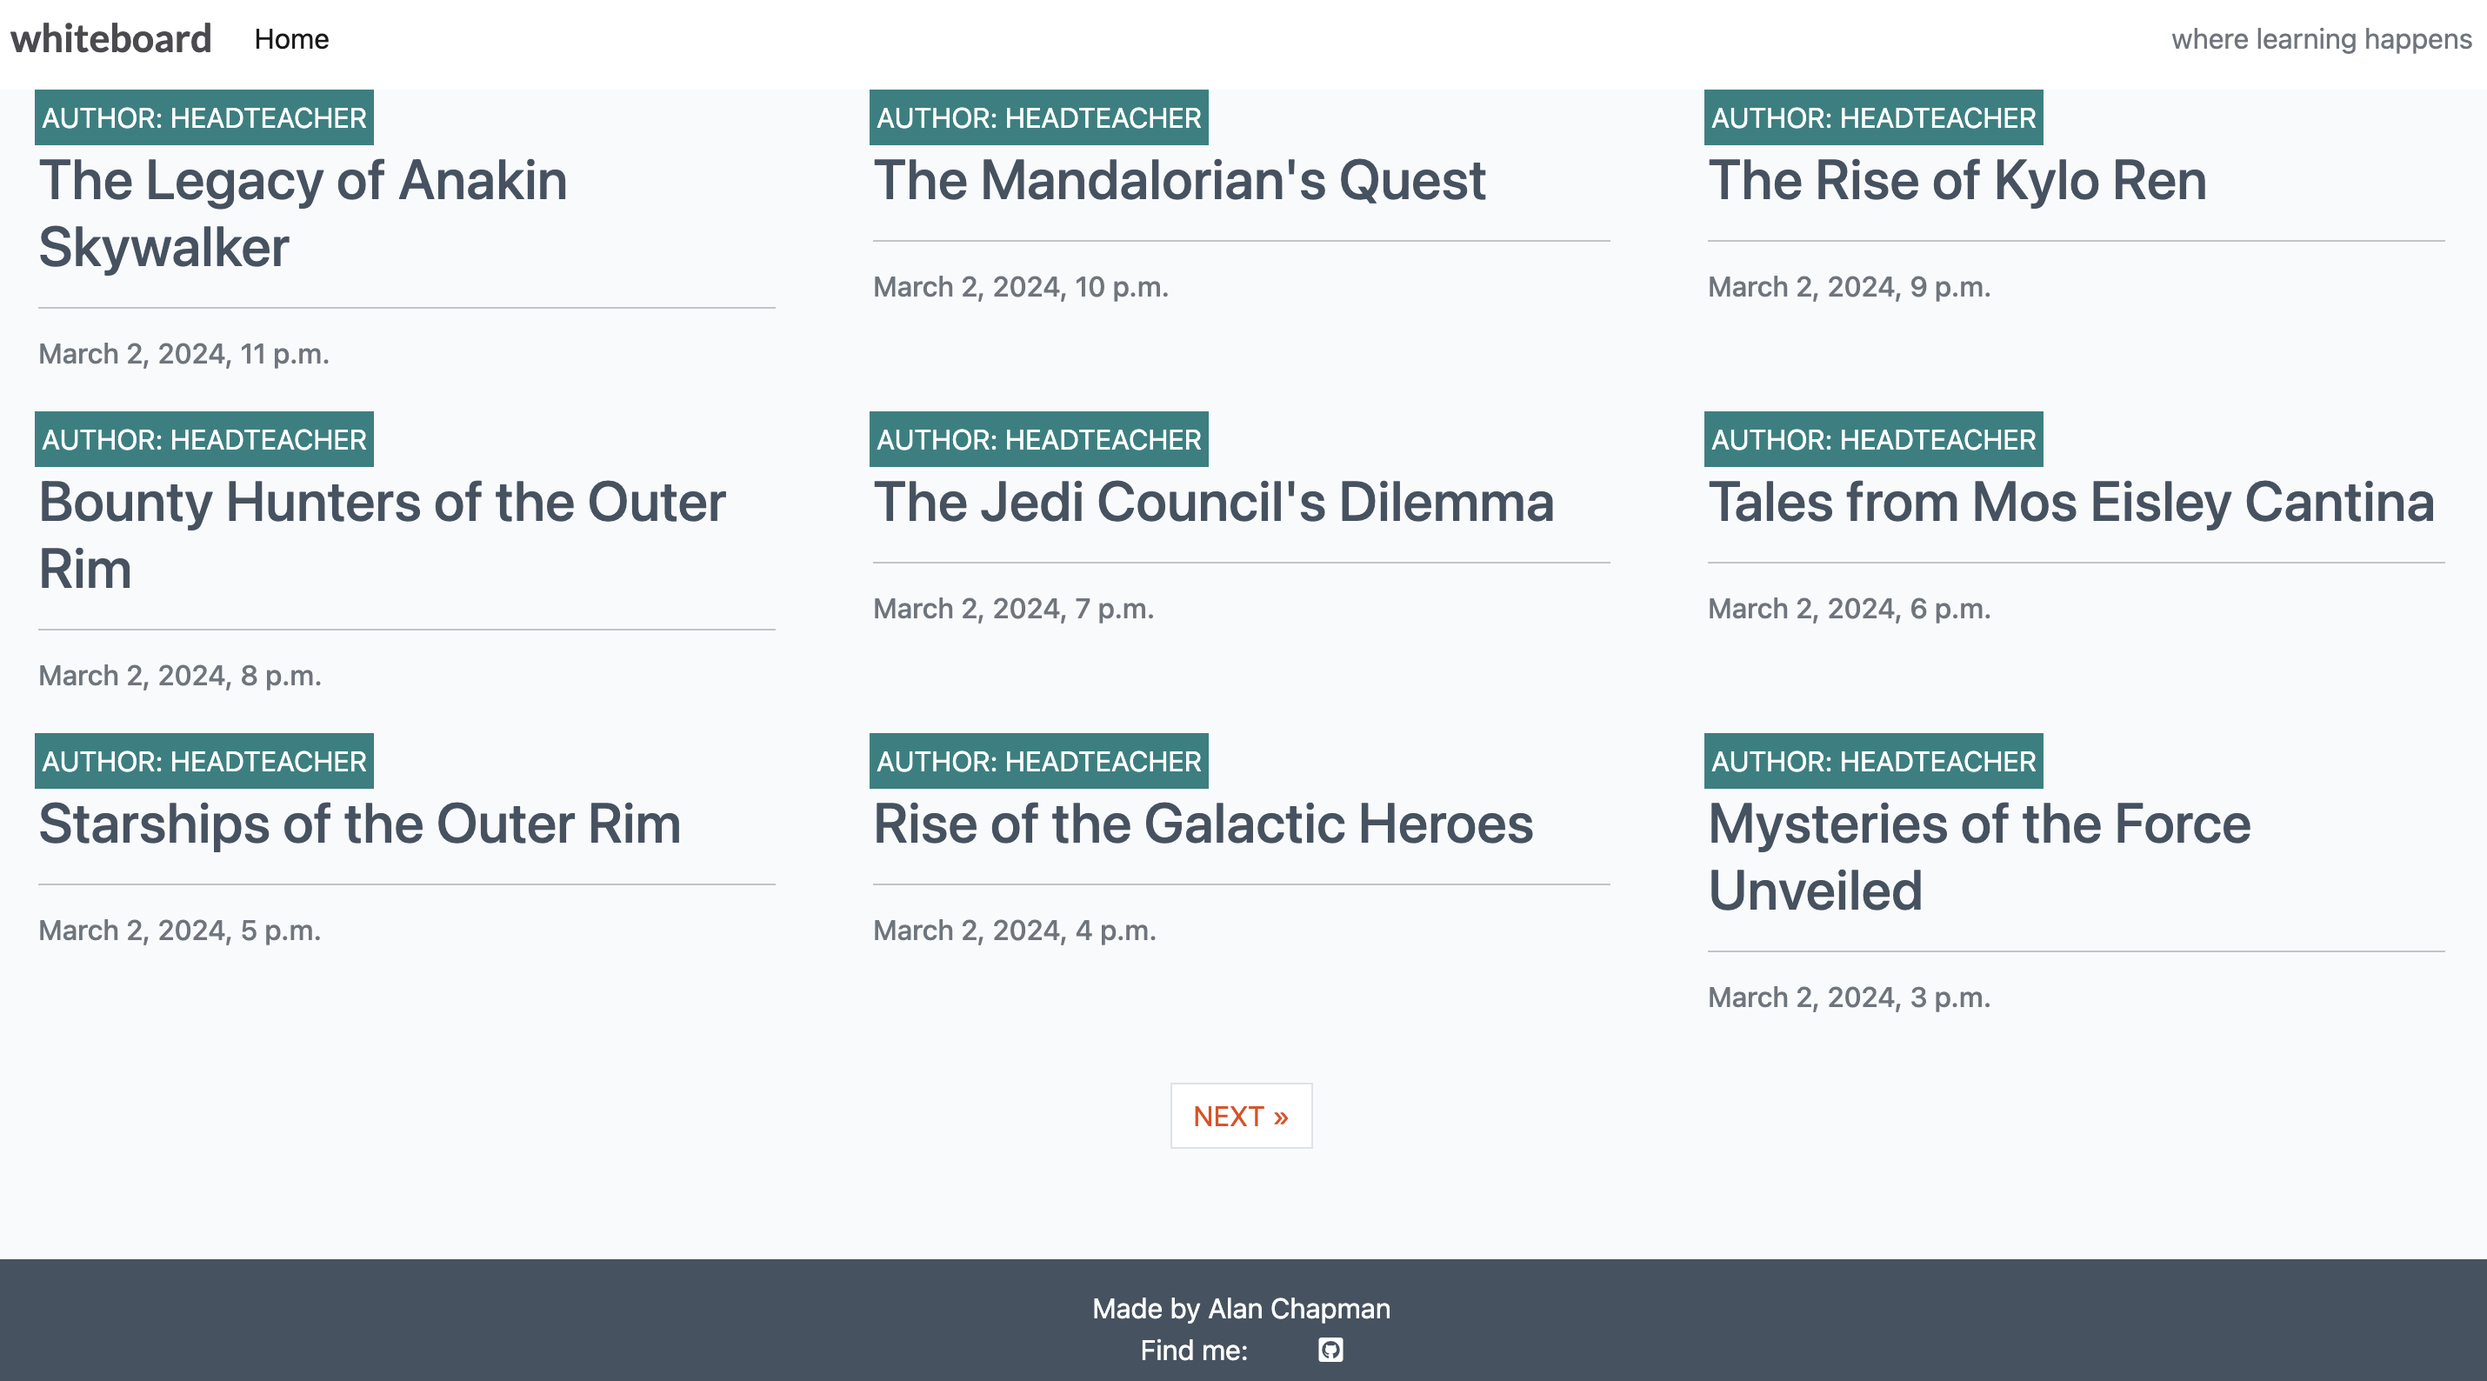
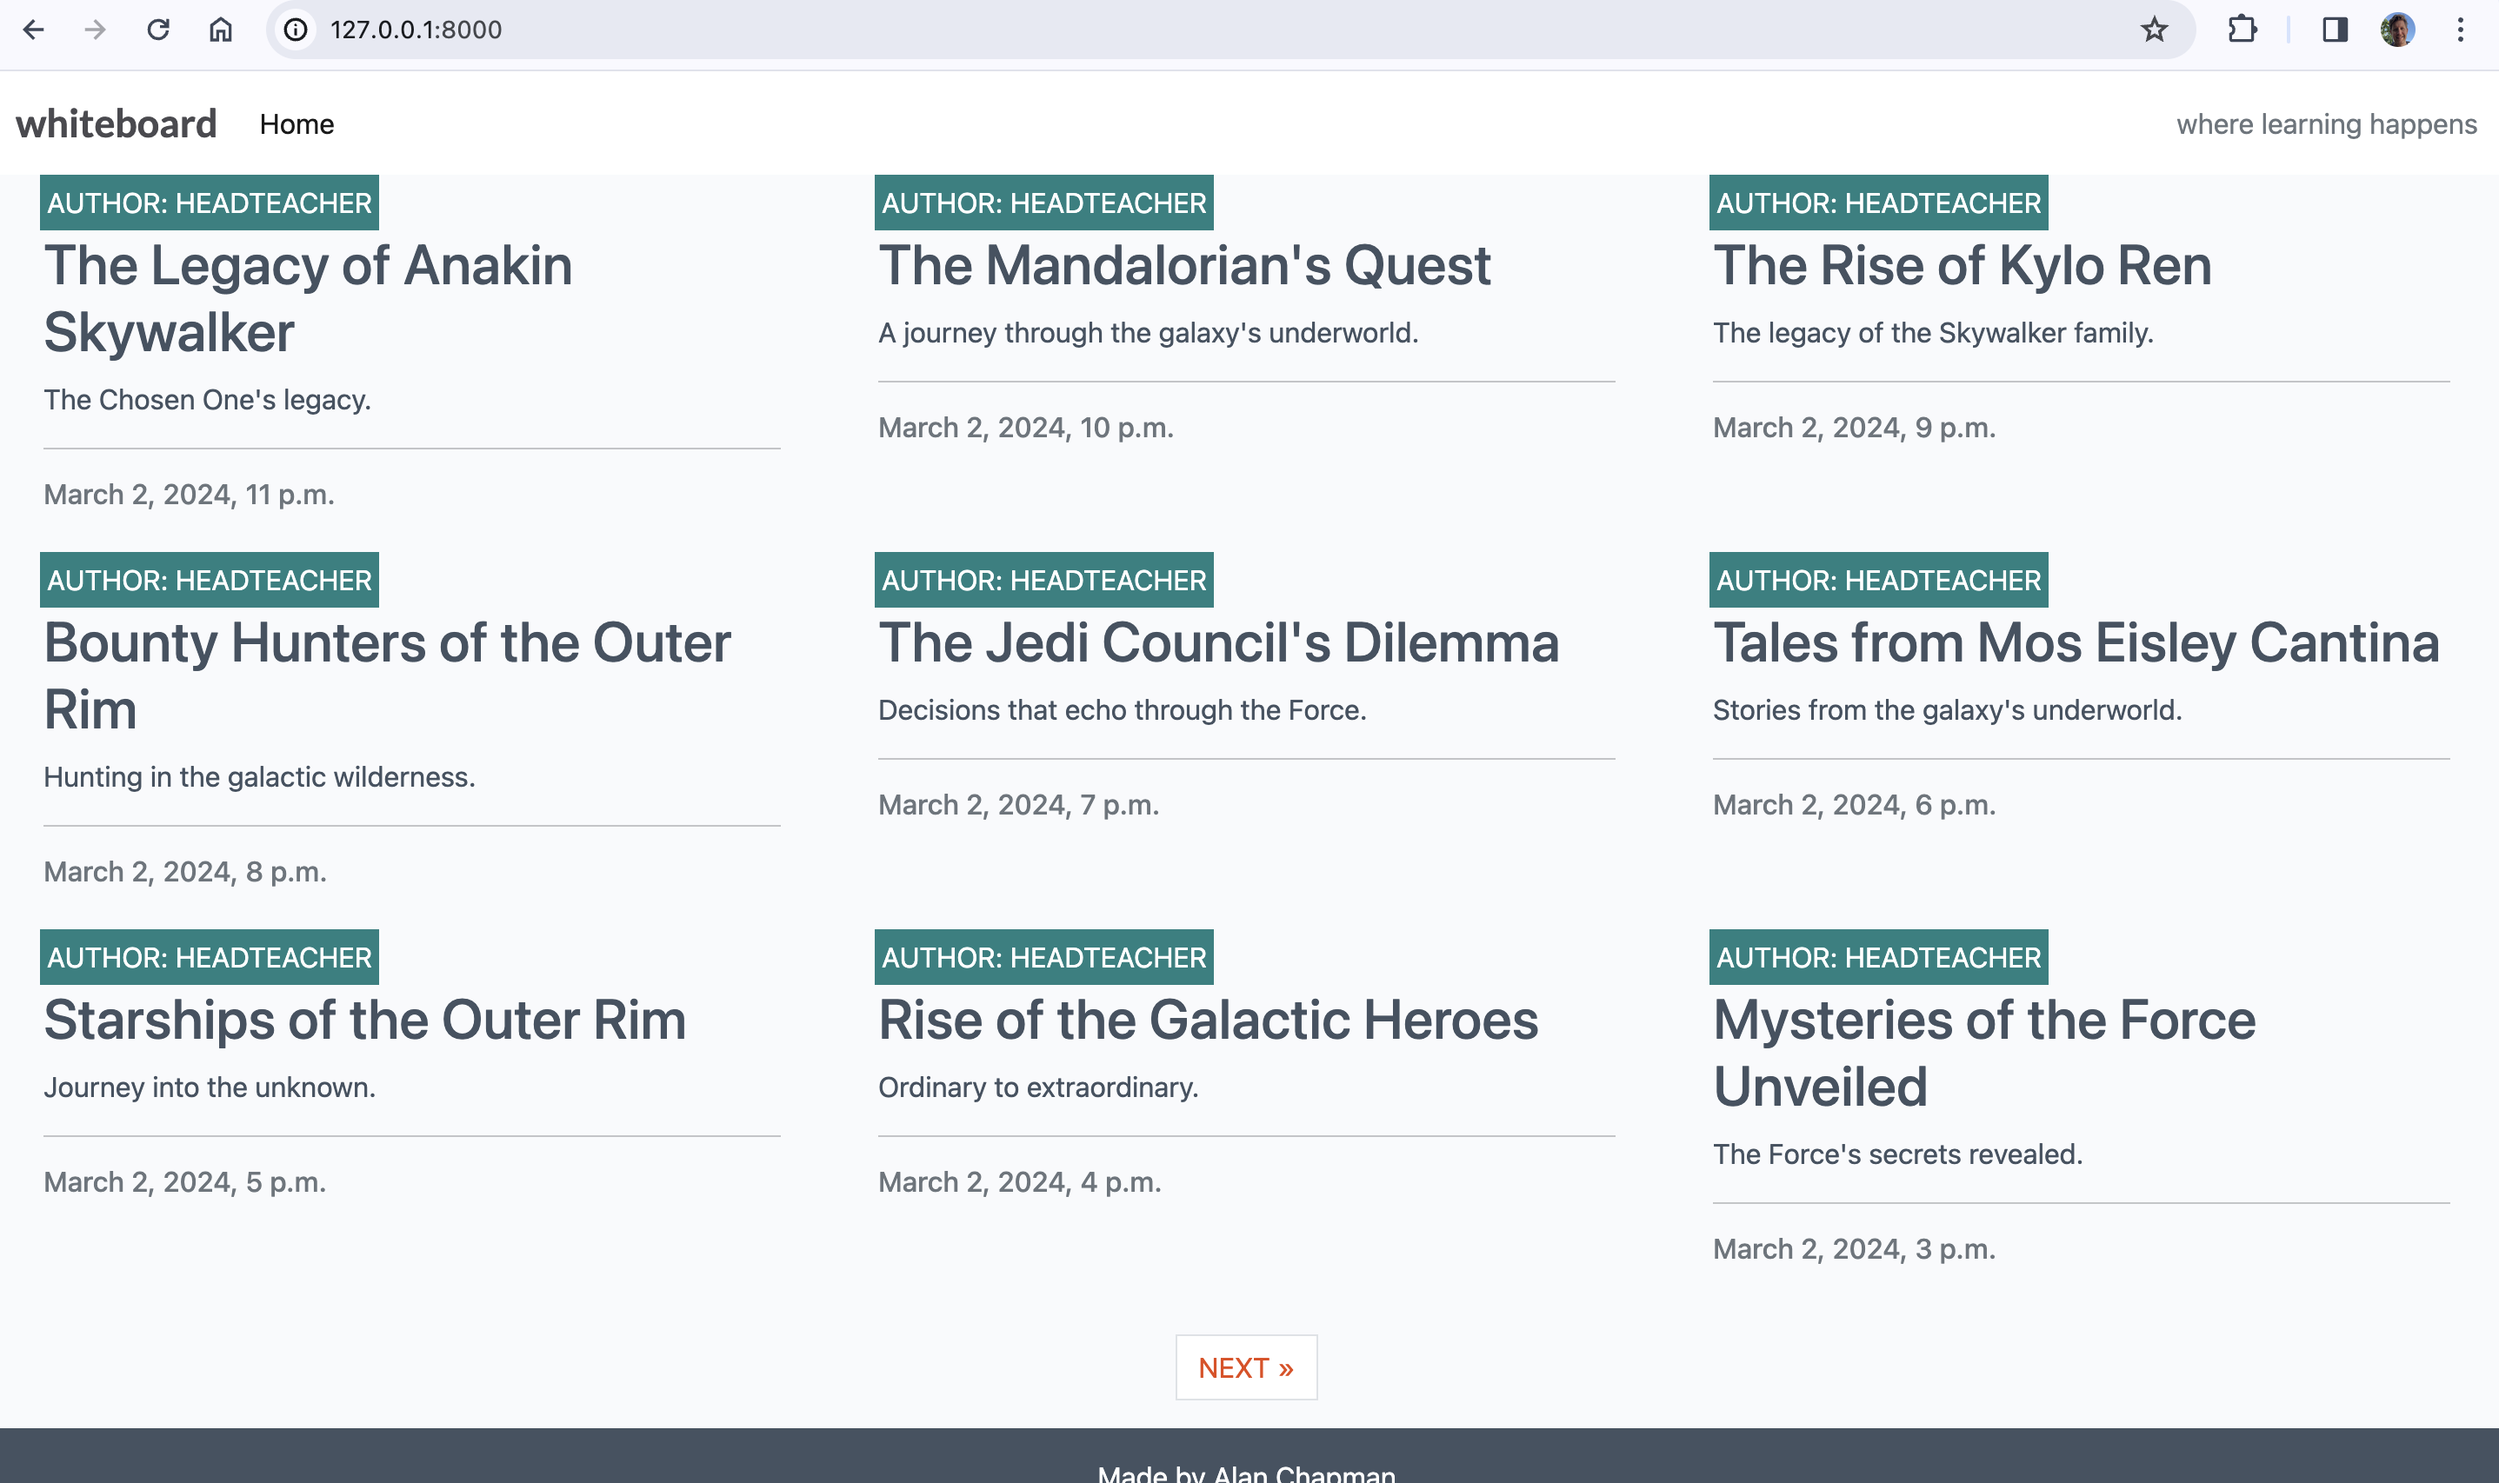
Update templates and views for blog post detail page

diff --git a/edblog/templates/edblog/post_detail.html b/edblog/templates/edblog/post_detail.html
@@ -1,0 +1,34 @@
+{% extends 'base.html' %} {% block content %}
+{% load static %}
+
+<div class="masthead">
+    <div class="container">
+        <div class="row g-0">
+            <div class="col-md-6 masthead-text">
+                <!-- Post title goes in these h1 tags -->
+                <h1 class="post-title">{{ post.title }}</h1>
+                <!-- Post author goes before the | the post's created date goes after -->
+                <p class="post-subtitle">{{ post.author }} | {{ post.created_on }}</p>
+            </div>
+            <div class="d-none d-md-block col-md-6 masthead-image">
+                <img src="{% static 'images/whiteboard_optimised.jpg' %}" class="scale" alt="placeholder">
+            </div>
+        </div>
+    </div>
+</div>
+
+<div class="container">
+    <div class="row">
+        <div class="col card mb-4  mt-3 left  top">
+            <div class="card-body">
+                <!-- The post content goes inside the card-text. -->
+                <!-- Use the | safe filter inside the template tags -->
+                <p class="card-text">
+                    {{ post.content | safe }}
+                </p>
+            </div>
+        </div>
+    </div>
+</div>
+
+{% endblock content %}

diff --git a/edblog/templates/edblog/index.html b/edblog/templates/edblog/index.html
@@ -18,7 +18,7 @@
                                     <p class="author">Author: {{ post.author }}</p>
                                 </div>
                             </div>
-                            <a href="#" class="post-link">
+                            <a href="{% url 'post_detail' post.slug %}" class="post-link">
                                 <h2 class="card-title">{{ post.title }}</h2>
                                 <p class="card-text">{{ post.excerpt }}</p>
                             </a>

diff --git a/edblog/views.py b/edblog/views.py
@@ -1,13 +1,40 @@
-from django.shortcuts import render
+from django.shortcuts import render, get_object_or_404
 from django.views import generic
 from .models import Post
 
 # Create your views here.
 class PostList(generic.ListView):
-    queryset = Post.objects.filter(status=1).order_by('-created_on') # tailored
-    # to show latest and published posts first
+    """
+    Display a list of :model:`blog.Post` objects.
+    """
+    queryset = Post.objects.filter(status=1).order_by('-created_on') # pylint: disable=no-member
+    # tailored to show latest and published posts first
     template_name = "edblog/index.html"
     paginate_by = 9 # Increased from 6 to 9. Infinite scroll discounted
     # because it tends to be used for aimless browsing - our users will be
     # looking for specific content. Last 9 posts should be enough to show, but
     # not too many to overwhelm the user.
+
+
+def post_detail(request, slug):
+    """
+    Display an individual :model:`edblog.Post`.
+
+    **Context**
+
+    ``post``
+        An instance of :model:`edblog.Post`.
+
+    **Template:**
+
+    :template:`edblog/post_detail.html`
+    """
+
+    queryset = Post.objects.filter(status=1) # pylint: disable=no-member
+    post = get_object_or_404(queryset, slug=slug)
+
+    return render(
+        request,
+        "edblog/post_detail.html",
+        {"post": post},
+    )

diff --git a/edblog/urls.py b/edblog/urls.py
@@ -3,4 +3,5 @@ from django.urls import path
 
 urlpatterns = [
     path('', views.PostList.as_view(), name='home'),
+    path('<slug:slug>/', views.post_detail, name='post_detail'), # pylint: disable=no-member
 ]
